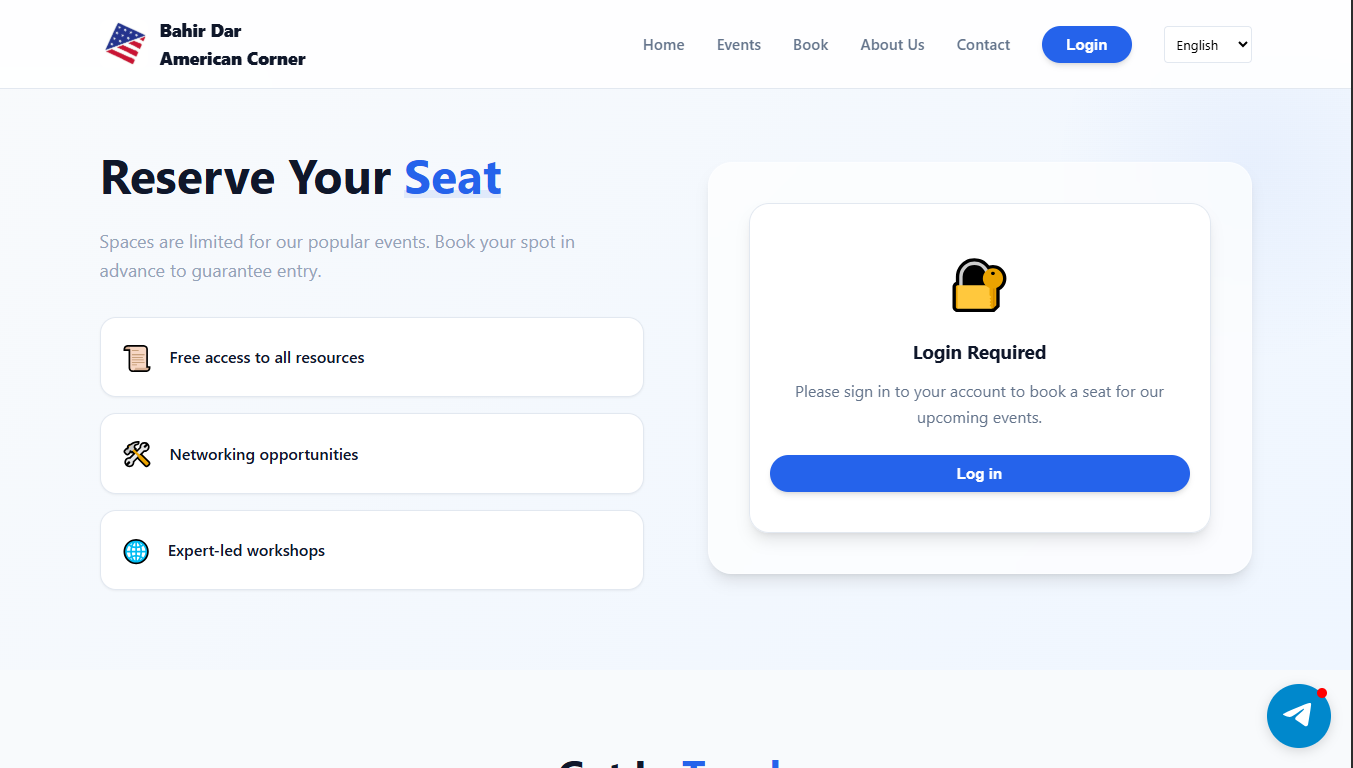
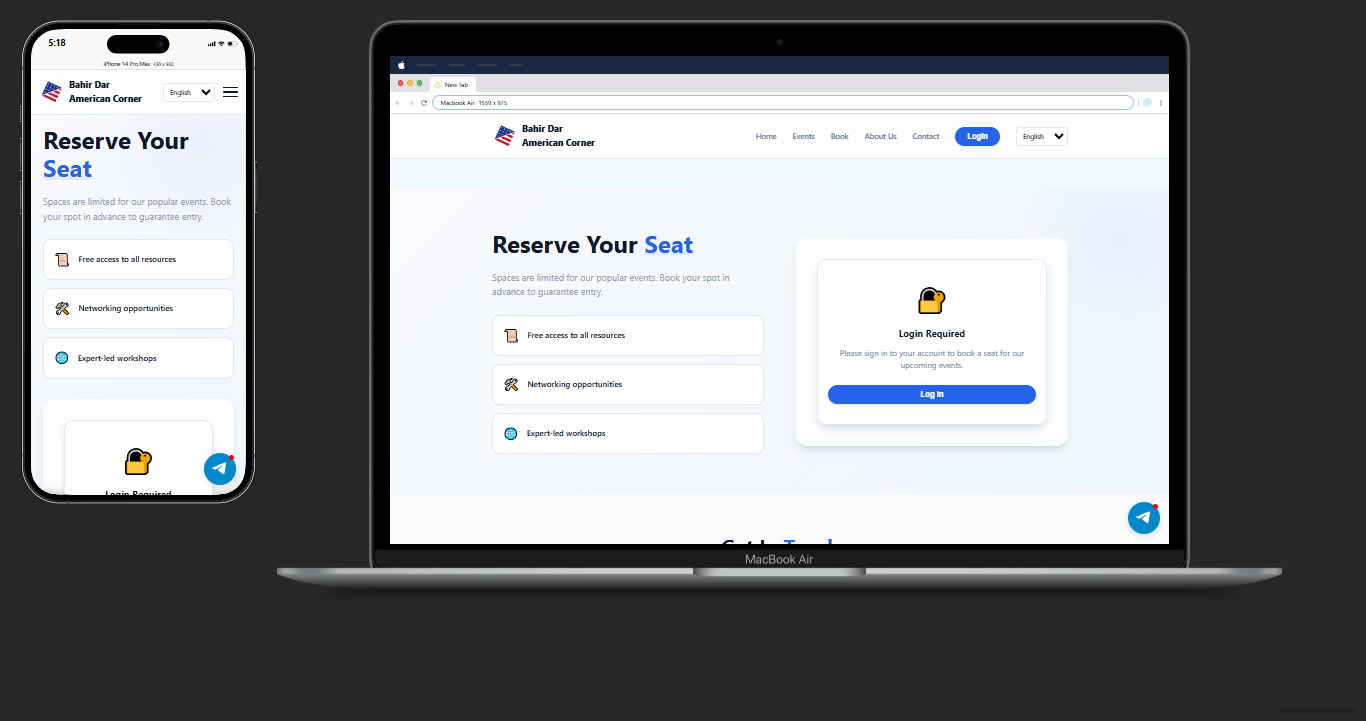
information updated

diff --git a/index.html b/index.html
@@ -119,7 +119,7 @@
                             <span class="cd-words-wrapper">
                               <b class="is-visible">Mekuanint Tewende</b>
                               <b>Web Designer</b>
-                              <b>Frontend Developer</b>
+                              <b>Full-Stack Developer</b>
                             </span>
                         </h1>
                         <a href="#0" class="butn butn-bord mt-30" data-scroll-nav="3">
@@ -153,25 +153,25 @@
                                 <h4>About Me</h4>
                             </div>
                             <div class="skill-item mb-30">
-                                <h6>HTML</h6>
+                                <h6>React.js</h6>
                                 <div class="skill-progress">
                                     <div class="progres" data-value="90%"></div>
                                 </div>
                             </div>
                             <div class="skill-item mb-30">
-                                <h6>CSS</h6>
+                                <h6>Node.js</h6>
                                 <div class="skill-progress">
                                     <div class="progres" data-value="85%"></div>
                                 </div>
                             </div>
                             <div class="skill-item mb-30">
-                                <h6>JavaScript</h6>
+                                <h6>Express.js</h6>
                                 <div class="skill-progress">
                                     <div class="progres" data-value="80%"></div>
                                 </div>
                             </div>
                              <div class="skill-item">
-                                <h6>React</h6>
+                                <h6>PostgreSQL</h6>
                                 <div class="skill-progress">
                                     <div class="progres" data-value="75%"></div>
                                 </div>
@@ -185,9 +185,14 @@
                         <div class="content">
                             <h6>Who am i</h6>
                             <h4>Mekuanint Tewende.</h4>
-                            <h5>Frontend Developer & Web Designer</h5>
-                            <p class="mb-10">I am a frontend developer and web designer who creates modern, responsive, and user-friendly websites. I focus on building clean UI designs and turning them into fully functional web experiences.</p>
-                            <p>I enjoy working with HTML, CSS, JavaScript, and modern frontend tools to deliver websites that are both visually appealing and easy to use. My goal is to create smooth, accessible, and responsive designs that work across all devices.</p>
+                            <h5>Full-Stack Developer & Web Designer</h5>
+                            <p class="mb-10">I am a full-stack developer who builds modern, responsive, and 
+production-ready web applications — from clean frontend UIs to 
+secure backend APIs with database integration.</p>
+                            <p>I work with React, Node.js, Express, and PostgreSQL to deliver 
+complete systems that solve real-world problems. My focus is on 
+clean architecture, smooth user experience, and reliable 
+performance across all devices.</p>
 
                             <div class="social mt-40">
                                 <span>Follow Me :</span>
@@ -222,36 +227,38 @@
                     
                     <div class="col-lg-3 col-md-6">
                         <div class="item mb-md50">
-                            <i class="icon "><i class="fa-solid fa-palette"></i></i></i>
+                            <i class="icon "><i class="fa-solid fa-pen-ruler"></i></i></i>
                             <h6>Web Design</h6>
-                            <p>I design consistent digital branding elements that help businesses build a strong and memorable identity.</p>
+                            <p>I design modern, clean, and responsive interfaces that deliver 
+outstanding user experiences across all devices.
+</p>
                         </div>
                     </div>
 
                     <div class="col-lg-3 col-md-6">
                         <div class="item mb-md50">
-                          <i class="icon "><i class="fa-duotone fa-solid fa-code"></i></i>
+                          <i class="icon "><i class="fa-solid fa-laptop-code"></i></i>
                             <h6>Frontend Development</h6>
-                            <p>I build fast, responsive, and interactive websites using HTML, CSS, JavaScript, and modern frontend frameworks.</p>
+                            <p>I build fast, interactive, and responsive web applications using 
+React, Vite, Tailwind CSS, and modern JavaScript.</p>
                         </div>
                     </div>
 
                     <div class="col-lg-3 col-md-6">
                         <div class="item mb-sm50">
-                            <i class="icon "><i class="fa-solid fa-shield-halved"></i></i>
-                            <h6>Branding</h6>
-                            <p>I create strong and consistent
-digital brand identities that
-help your business stand out
-and build a lasting impression.</p>
+                            <i class="icon "><i  class="fa-solid fa-server"></i></i>
+                            <h6>Backend Development</h6>
+                            <p>I build secure REST APIs using Node.js and Express.js 
+with JWT authentication and role-based access control.</p>
                         </div>
                     </div>
 
                     <div class="col-lg-3 col-md-6">
                         <div class="item">
-                            <i class="icon "><i class="fa-solid fa-chart-line"></i></i>
-                            <h6>Performance Optimization</h6>
-                            <p>I improve website speed, responsiveness, and overall performance for better user experience and SEO.</p>
+                            <i class="icon "><i  class="fa-solid fa-database"></i></i>
+                            <h6> Database Design</h6>
+                            <p>I design and manage PostgreSQL databases with optimized queries, 
+transactions, and data integrity enforcement.</p>
                         </div>
                     </div>
 
@@ -335,10 +342,10 @@ and build a lasting impression.</p>
                         <!-- gallery item -->
                         <div class="items width2 graphic">
                             <div class="item-img">
-                                <img src="image/portfolio/bmwm.png" alt="image">
+                                <img src="image/portfolio/ui.png" alt="image">
                                 <div class="item-img-overlay valign">
                                     <div class="overlay-info full-width vertical-center">
-                                        <h6>Best Modern UI Gallery Website</h6>
+                                        <h6>Best Modern UI Dashboard</h6>
                                         <p></p>
                                     </div>
                                      <a href="img/portfolio/4.jpg" class="popimg">
@@ -396,17 +403,19 @@ and build a lasting impression.</p>
                         <!-- gallery item -->
                         <div class="items web">
                             <div class="item-img">
-                                <img src="image/portfolio/telegram .png" alt="image">
+                                <img src="image/portfolio/fuel d.png" alt="image">
                                 <div class="item-img-overlay valign">
                                     <div class="overlay-info full-width vertical-center">
-                                        <h6>Telegram Integrated System</h6>
-                                        <p>Designed and implemented a Telegram API integration system for real-time content synchronization between Telegram channels and a web-based dashboard.</p>
+                                        <h6>FuelControl — Fleet Management System</h6>
+                                        <p>Built a full-stack fleet fuel management system with real-time 
+quota enforcement, JWT authentication, AI copilot, and 
+consumption analytics. React + Node.js + PostgreSQL.</p>
                                     </div>
-                                   <a href="https://github.com/MekuanintT/bdac-web-platform" target="_blank" class="">
+                                   <a href="https://github.com/MekuanintT/fuelcontrol" target="_blank" class="">
                                         <i class="fa-brands fa-github" style="margin-right:50px;"></i>
                                     </a>
 
-                                    <a href="https://bdac-web-platform.vercel.app/" target="_blank">
+                                    <a href="https://fuelcontrol-eight.vercel.app/" target="_blank">
                                         <i class="fa-solid fa-play"></i>
                                     </a>
                                 </div>
@@ -459,14 +468,14 @@ and build a lasting impression.</p>
                     <div class="col-lg-4">
                         <div class="item mb-md50">
                             <div class="post-img position-re o-hidden">
-                                <img src="image/blog/ui.png" alt="">
+                                <img src="image/blog/blog1.png" alt="">
                             </div>
                             <div class="content">
                                 <span class="data">
-                                    <a href="#0" class="undecro">Modern UI Design </a>
-                                    <a href="#0" class="undecro">March 09 - 2026</a>
+                                    <a href="#0" class="undecro">Building a Full-Stack App from Scratch </a>
+                                    <a href="#0" class="undecro">June 2026</a>
                                 </span>
-                                <h5><a href="#0" class="undecro">Improving UX with clean layout and spacing.</a></h5>
+                                <h5><a href="#0" class="undecro">How I built FuelControl with React, Node.js, and PostgreSQL.</a></h5>
 
                                 <a href="#portfolio" class="more mt-30">
                                     <span>Read More</span>
@@ -478,14 +487,14 @@ and build a lasting impression.</p>
                     <div class="col-lg-4">
                         <div class="item mb-md50">
                             <div class="post-img position-re o-hidden">
-                                <img src="image/blog/respo.png" alt="">
+                                <img src="image/blog/blog2.png" alt="">
                             </div>
                             <div class="content">
                                 <span class="data">
-                                    <a href="#0" class="undecro">Fast & Responsive Websites</a>
-                                    <a href="#0" class="undecro">March 09 - 2026</a>
+                                    <a href="#0" class="undecro">MySQL to PostgreSQL Migration</a>
+                                    <a href="#0" class="undecro"> June 2026</a>
                                 </span>
-                                <h5><a href="#0" class="undecro">Building fast and responsive web experiences.</a></h5>
+                                <h5><a href="#0" class="undecro">Lessons learned migrating a live backend mid-build.</a></h5>
 
                                 <a href="#portfolio" class="more mt-30">
                                     <span>Read More</span>
@@ -497,14 +506,14 @@ and build a lasting impression.</p>
                     <div class="col-lg-4">
                         <div class="item">
                             <div class="post-img position-re o-hidden">
-                                <img src="image/blog/api1.png" alt="">
+                                <img src="image/blog/blog3.png" alt="">
                             </div>
                             <div class="content">
                                 <span class="data">
-                                    <a href="#0" class="undecro">API Integration</a>
-                                    <a href="#0" class="undecro">March 09 - 2026</a>
+                                    <a href="#0" class="undecro">JWT Authentication in Node.js</a>
+                                    <a href="#0" class="undecro"> June 2026</a>
                                 </span>
-                                <h5><a href="#0" class="undecro">Integrating APIs for dynamic web applications.</a></h5>
+                                <h5><a href="#0" class="undecro">Implementing secure role-based access control with Express.</a></h5>
 
                                 <a href="#portfolio" class="more mt-30">
                                     <span>Read More</span>
